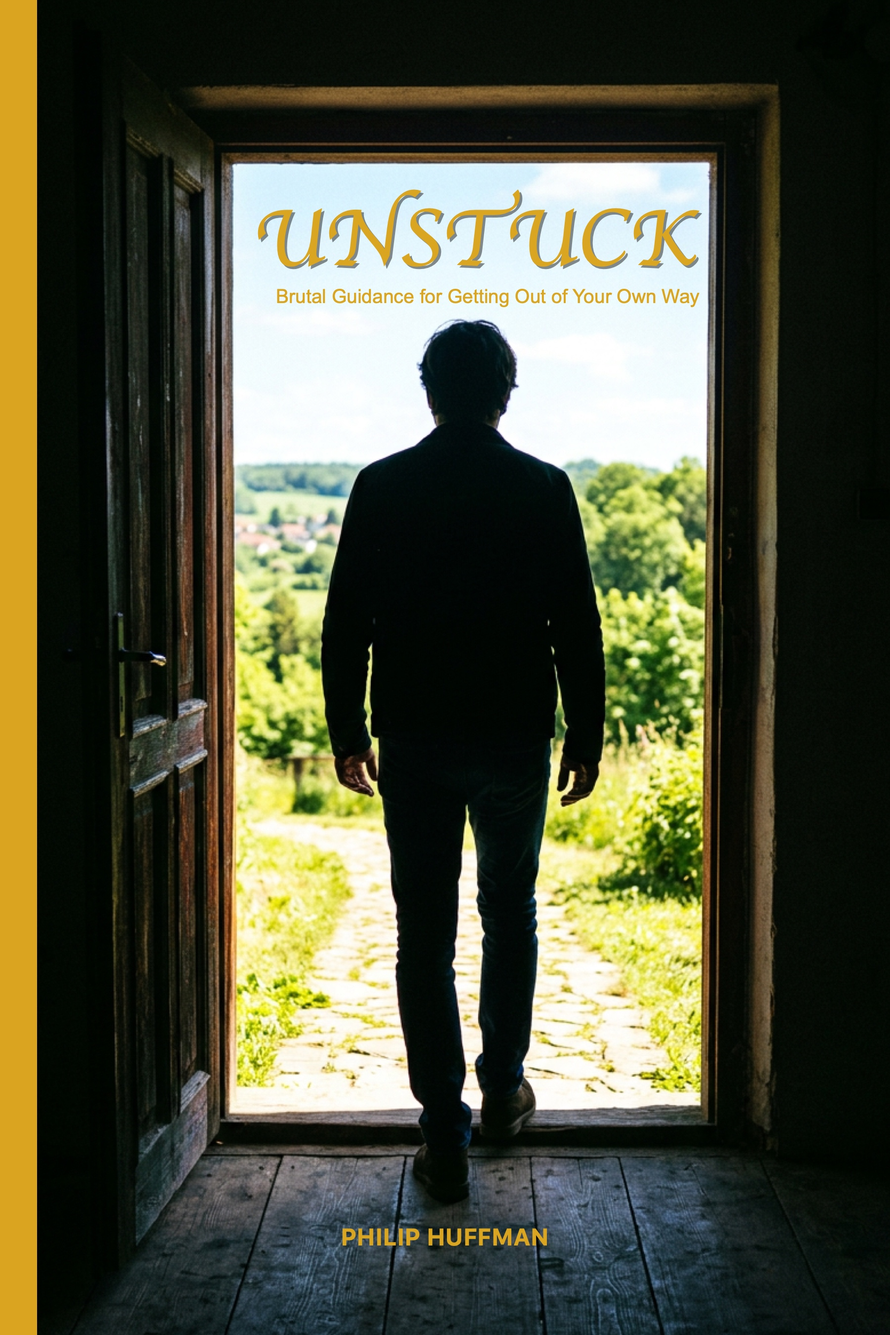
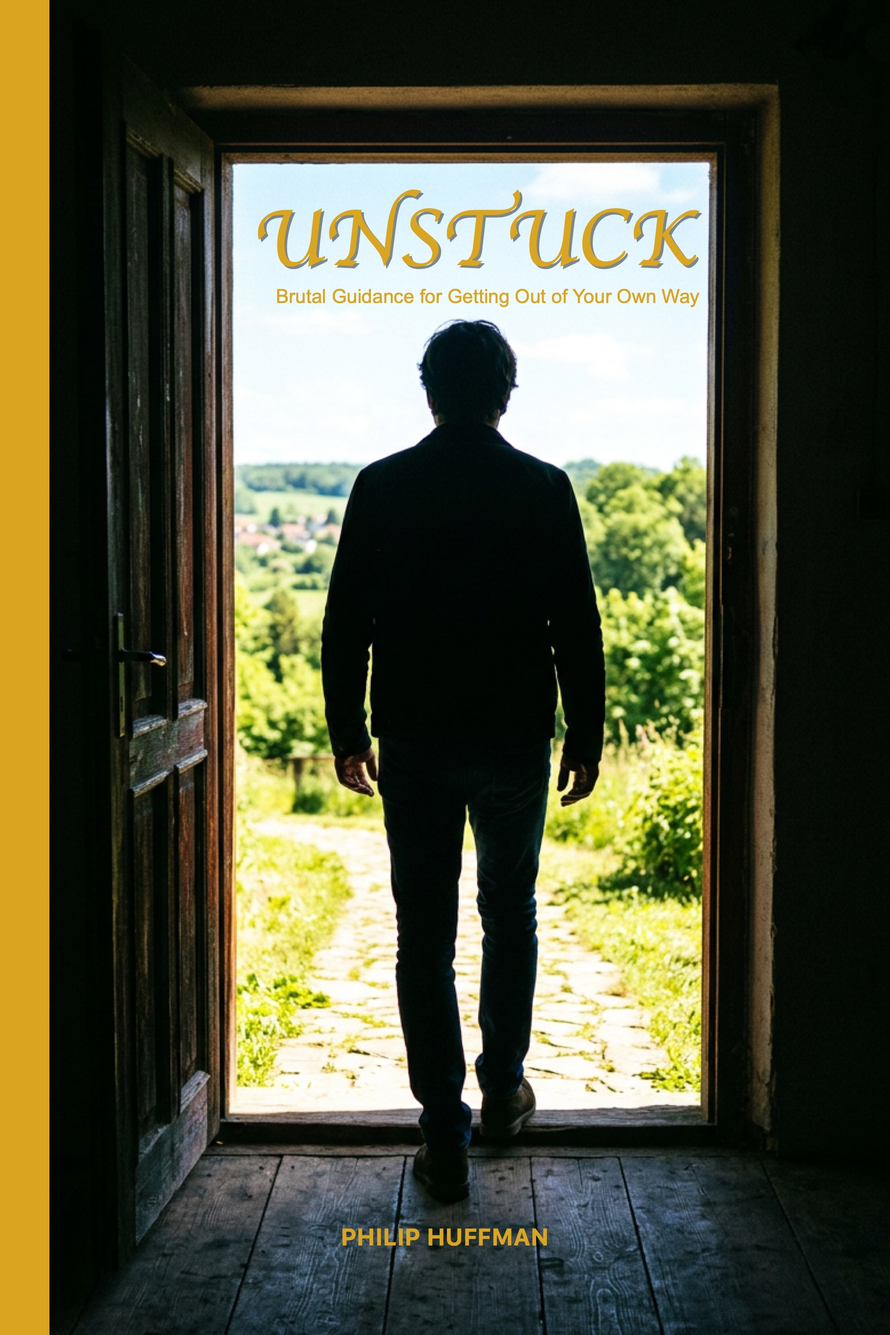
Set the Unstuck cover strip to one third inch

Changed region(s): [[0.0311, 0.0, 0.0622, 1.0]]

diff --git a/SESSION_STATE.md b/SESSION_STATE.md
@@ -16,9 +16,10 @@
 
 Philip, 2026-10-25: "I've changed the cover for 'Unstuck.' Freshen up the image on the site." The renders in `LaTeX/AllMyBooks/unstuck/cover/` were rebuilt at 06:27 (HC) and 06:35 (PB) that morning; the front art is the same door-and-figure plate, redrawn with the title inside the doorway.
 - **The site cover was replaced, not added.** `assets/img/books/unstuck.jpg` is now the generator's own PB front-cover export, `pb-unstuck.jpg`, copied byte-for-byte: 1800×2700 (exact 2:3), 1.14 MB, up from the old 1919×2771 HC export because the new render carries finer art. Frontmatter is unchanged: every surface reads this one path — the book page (`img.html`, 800 px webp), the `/books/` hub card, the home Library grid, the `all-my-books` catalog, and both `og:image` and the Book schema, which now report 1800×2700.
-- **The gold strip along the left edge is the branding, and it stays.** The first pass cropped it out at the spine seam, reading it as leftover wrap; Philip, 2026-10-25: "I want those strips. That feature is part of the branding." He is right and the measurement says so: every cover in `assets/img/books/` carries a left spine strip (`almw.jpg`, `letters.jpg`, `misaligned.jpg`, `proportion.jpg` 120 px of 1918; `raisem-right.jpg`, `stoic-citizen.jpg`, `tsc.jpg` 119 px of 2039; `stoic-cgm.jpg` 90 px of 1947; `stoic-backgammon.jpg` 75 px of 1800), and the new Unstuck export's 75 px of 1800 puts it with `stoic-backgammon.jpg` on the same 1800×2700 render. **Do not crop a spine strip off a book cover** — the strip is what makes the covers a set, and `object-fit: contain` renders it as a band rather than hiding it.
-- **The strip has one control: `spine_color_extension_inches` in `cover/cover.md`.** It is measured from the spine fold and drawn over the front panel by `drawSpine`, which fills `spineWidth + extension`; for a paperback, `hinge_inches` is 0 and the fold is the panel edge, so the setting *is* the visible strip. Unstuck sets `0.25`, and CoverStudio's `--out-front` reproduces the published file byte-for-byte (verified 2026-10-25: `render … --out-front` and `assets/img/books/unstuck.jpg` hash to `228cfbba…`). Measured on the 300 dpi wrap, the gold runs from the hinge at x=1890 to x=1965 — 76 px, 0.253 in. **Every other book sets `0.40`** (`Life_made_whole`, `Misaligned`, `proportion`, `tsc` all read `4e-1`, and their site covers measure 119–120 px), so Unstuck is deliberately the narrow one; Philip asked for 0.25 in on 2026-10-25 knowing the difference, so do not "harmonize" it back to 0.4 without asking.
-- **Verified:** `hugo --gc --minify` builds 515 pages; the rendered cover was checked on the book page, the hub, home, and the catalog in a browser, not by file-existence alone. `check-hero-paths.py` (coverage: 379 paths) and `check-content-frontmatter.py` (263 files) both OK. The article hero (`Unstuck-16x9.webp` / `Unstuck-4x5.webp`) is separate art — the Marcus bust — and was left alone; `image_alt` still describes the plate.
+- **The gold strip along the left edge is the branding, and it stays.** The first pass cropped it out at the spine seam, reading it as leftover wrap; Philip, 2026-10-25: "I want those strips. That feature is part of the branding." He is right and the measurement says so: every cover in `assets/img/books/` carries a left spine strip (`almw.jpg`, `letters.jpg`, `misaligned.jpg`, `proportion.jpg` 120 px of 1918; `raisem-right.jpg`, `stoic-citizen.jpg`, `tsc.jpg` 119 px of 2039; `stoic-cgm.jpg` 90 px of 1947; `stoic-backgammon.jpg` 75 px of 1800). **Do not crop a spine strip off a book cover** — the strip is what makes the covers a set, and `object-fit: contain` renders it as a band rather than hiding it.
+- **The strip has one control: `spine_color_extension_inches` in `cover/cover.md`.** It is measured from the spine fold and drawn over the front panel by `drawSpine`, which fills `spineWidth + extension`; for a paperback, `hinge_inches` is 0 and the fold is the panel edge, so the setting *is* the visible strip. The other books set `0.40`, and that number is not aesthetic: they are hardcovers, KDP's hinge is `hinge_inches: 0.394`, and the band is exactly the hinge.
+- **Unstuck is set to one third of an inch, decided 2026-10-25.** The cover was first shipped at the project's old `0.25`, which measured 75 px and read as a hairline beside the eight `0.40` covers at card size (5 px of a 120 px card against their 8 px). Philip, shown 0.25 / 0.333 / 0.40 rendered from the same project and asked what to suggest: "I'll go with 1/3." Set to `3.333334e-1`, which renders 99 px in the front crop (0.33 in, 6.7 px at card size) — near the set's 0.394 hinge without reaching it, and short of the width where the band starts to read as a frame at page size. `pb-unstuck.pdf`, `pb-unstuck.png` and `pb-unstuck.jpg` were regenerated with `CoverStudio render . --bind pb`; the HC files were left alone. Changing this field moves the **printed** wrap as well as the site image, which is why it is not a site-only edit.
+- **Verified:** `hugo --gc --minify` builds 515 pages; the rendered cover was checked on the book page, the hub, home, and the catalog in a browser, not by file-existence alone. `check-hero-paths.py` (coverage: 381 paths) and `check-content-frontmatter.py` (264 files) both OK. The article hero (`Unstuck-16x9.webp` / `Unstuck-4x5.webp`) is separate art — the Marcus bust — and was left alone; `image_alt` still describes the plate.
 
 ---
 
